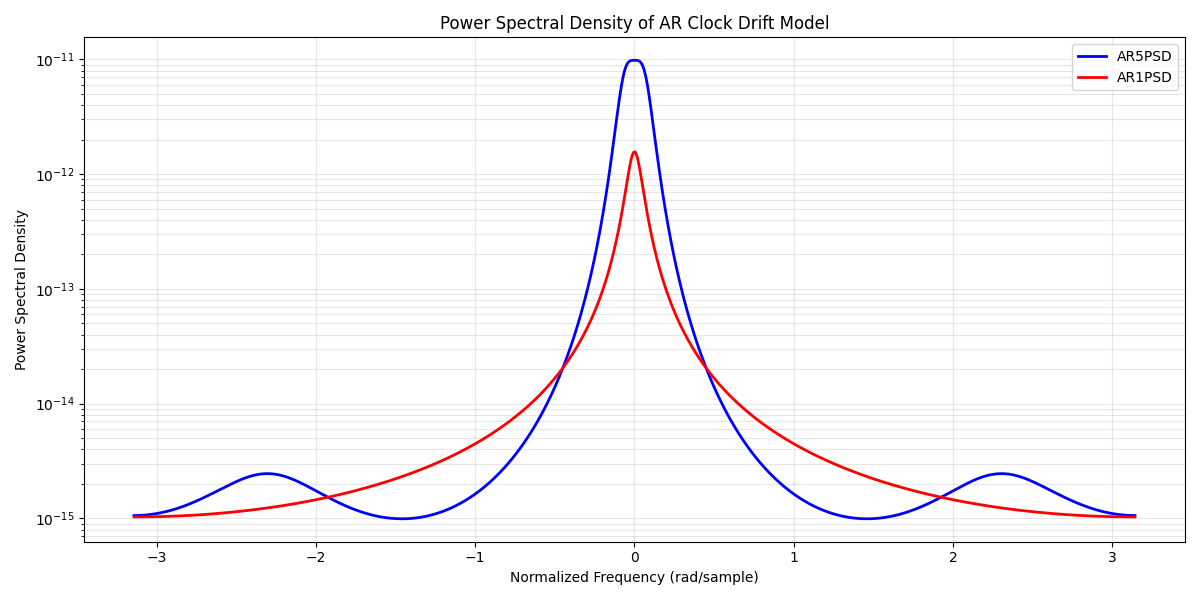
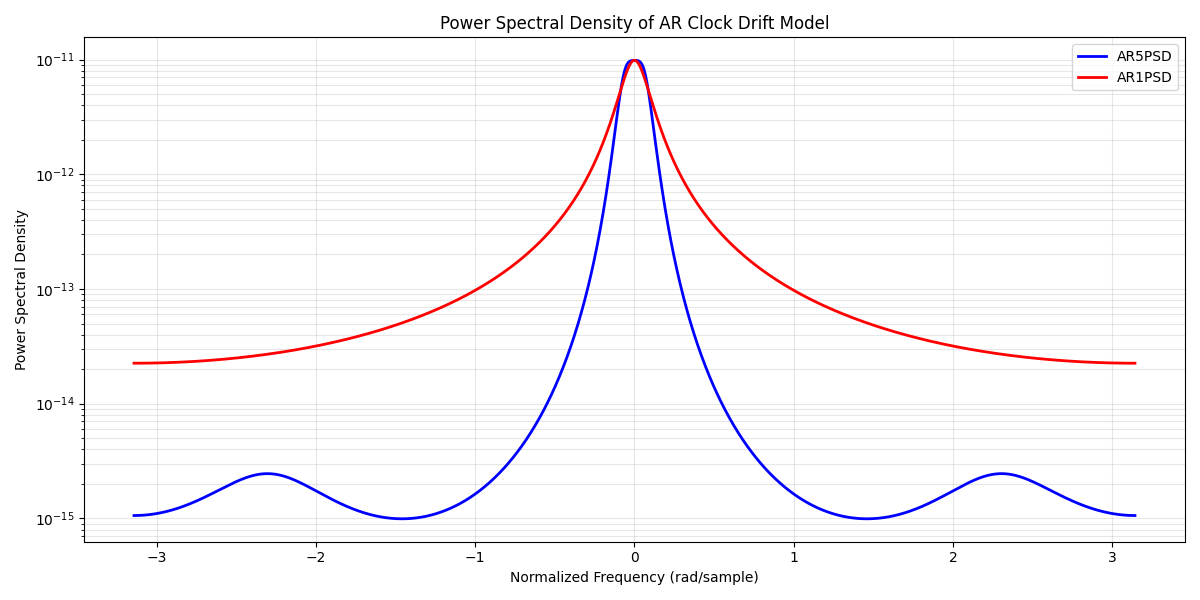
We now have both PSD's in the same plot and both realizations in the same plot

diff --git a/mathing/clockSync/basicARClock.py b/mathing/clockSync/basicARClock.py
@@ -8,7 +8,7 @@ import numpy as np
 import matplotlib as mpl
 import matplotlib.pyplot as plt
 
-np.random.seed(42)
+seed = 42
 
 
 tolerance = 5e-2
@@ -144,6 +144,7 @@ def plot_multiple_realizations(num_realizations=10):
 
 
 def ARModelSimple():
+    np.random.seed(seed)
     # meanDrift = np.random.uniform(-tolerance, tolerance)
     # print(f"Mean skew: {meanDrift}")
     # meanDrift = 0
@@ -245,6 +246,7 @@ def get_model_state_at_time(time_x, data, time_step_seconds=t0):
     return clock_drift, clock_skew    
         
 def AR1Model():
+    np.random.seed(seed)
     VarStd = np.sqrt(noiseVar*AR1Gain) 
     mean = 0
     c1 = AR1Const
@@ -256,6 +258,62 @@ def AR1Model():
         drift = data[i][0] + t0*(skew + mean)
         data.append([drift, skew])
     return data
+
+def plot_AR1_vs_AR5(AR1_data, AR5_data):
+    """
+    Plot AR1 and AR5 model data on the same plot for direct comparison.
+    
+    Args:
+        AR1_data: AR1 model data (list or array of [theta, alpha] pairs)
+        AR5_data: AR5 model data (list or array of [theta, alpha] pairs)
+    """
+    # Convert to numpy arrays if needed
+    AR1_data = np.array(AR1_data)
+    AR5_data = np.array(AR5_data)
+    
+    # Extract theta and alpha values
+    AR1_theta = AR1_data[:, 0]
+    AR1_alpha = AR1_data[:, 1]
+    AR5_theta = AR5_data[:, 0]
+    AR5_alpha = AR5_data[:, 1]
+    
+    # Create time steps
+    AR1_time = np.arange(len(AR1_data))
+    AR5_time = np.arange(len(AR5_data))
+    
+    # Create figure with two subplots
+    fig, (ax1, ax2) = plt.subplots(2, 1, figsize=(14, 10))
+    
+    # Plot theta (clock drift) comparison
+    ax1.plot(AR5_time, AR5_theta, 'b-', linewidth=2, label='AR5 Clock Drift', alpha=0.7)
+    ax1.plot(AR1_time, AR1_theta, 'r--', linewidth=2, label='AR1 Clock Drift', alpha=0.7)
+    ax1.set_xlabel(f'Time ({timeScale})')
+    ax1.set_ylabel('Clock Drift (seconds)')
+    ax1.set_title('Clock Drift Comparison: AR5 vs AR1')
+    ax1.grid(True, alpha=0.3)
+    ax1.legend(loc='best')
+    
+    # Plot alpha (clock skew) comparison
+    ax2.plot(AR5_time, AR5_alpha, 'b-', linewidth=2, label='AR5 Clock Skew', alpha=0.7)
+    ax2.plot(AR1_time, AR1_alpha, 'r--', linewidth=2, label='AR1 Clock Skew', alpha=0.7)
+    ax2.set_xlabel(f'Time ({timeScale})')
+    ax2.set_ylabel('Clock Skew (s/s)')
+    ax2.set_title('Clock Skew Comparison: AR5 vs AR1')
+    ax2.grid(True, alpha=0.3)
+    ax2.legend(loc='best')
+    
+    plt.tight_layout()
+    plt.show()
+    
+    # Print comparison statistics
+    print(f"\n=== Clock Drift (Theta) Comparison ===")
+    print(f"AR5: Min={np.min(AR5_theta):.6e}, Max={np.max(AR5_theta):.6e}, Mean={np.mean(AR5_theta):.6e}, Std={np.std(AR5_theta):.6e}")
+    print(f"AR1: Min={np.min(AR1_theta):.6e}, Max={np.max(AR1_theta):.6e}, Mean={np.mean(AR1_theta):.6e}, Std={np.std(AR1_theta):.6e}")
+    
+    print(f"\n=== Clock Skew (Alpha) Comparison ===")
+    print(f"AR5: Min={np.min(AR5_alpha):.6e}, Max={np.max(AR5_alpha):.6e}, Mean={np.mean(AR5_alpha):.6e}, Std={np.std(AR5_alpha):.6e}")
+    print(f"AR1: Min={np.min(AR1_alpha):.6e}, Max={np.max(AR1_alpha):.6e}, Mean={np.mean(AR1_alpha):.6e}, Std={np.std(AR1_alpha):.6e}")
+
 
 def analysis(AR1data, AR5data):
     timeLagMax = 50
@@ -304,7 +362,7 @@ def analysis(AR1data, AR5data):
 def main ():
     # Uncomment the following line to plot a single realization with detailed stats
     AR5data = np.array(ARModelSimple())
-    # AR1data = np.array(AR1Model())  
+    AR1data = np.array(AR1Model())  
     # print(AR5data[:,1])
 
 
@@ -314,9 +372,10 @@ def main ():
     #Temperature based drift
     # data = tempModel(start = 1) #Write month number
     
-    plotData(AR5data)
+    # plotData(AR5data)
     # plotData(AR1data)
     # plot_psd()
+    plot_AR1_vs_AR5(AR1_data=AR1data, AR5_data=AR5data)
     # analysis(AR1data, AR5data)
     
 
